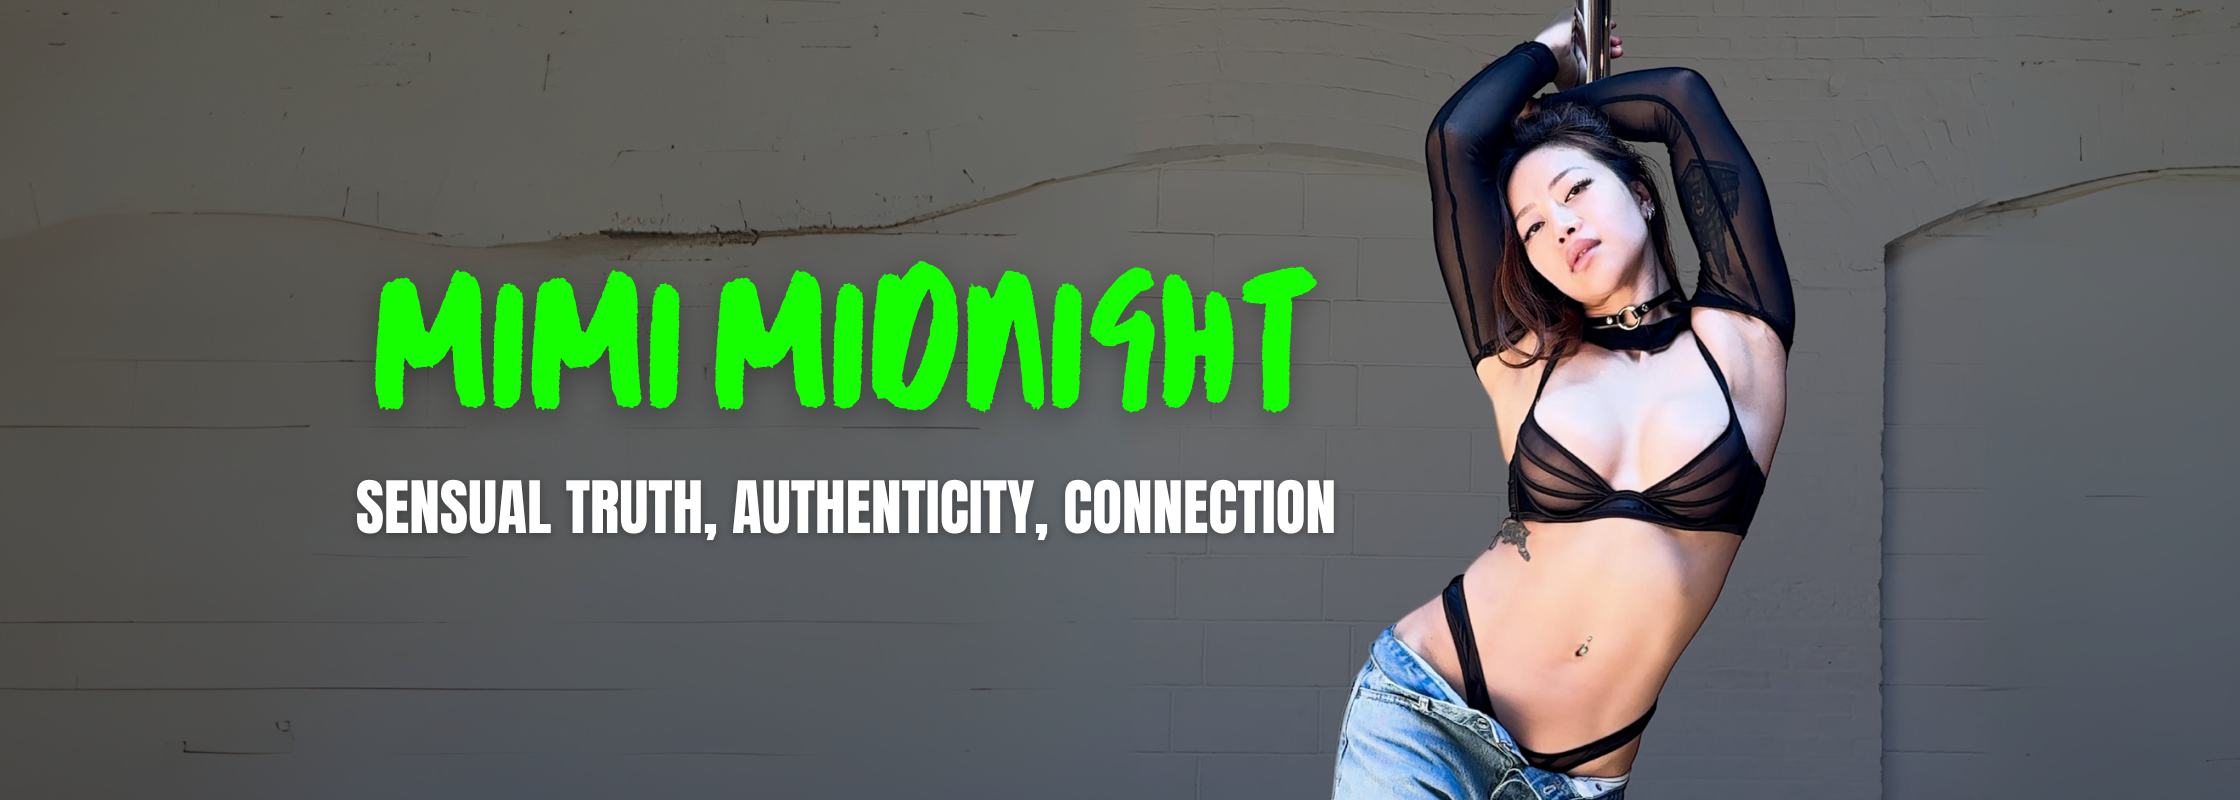
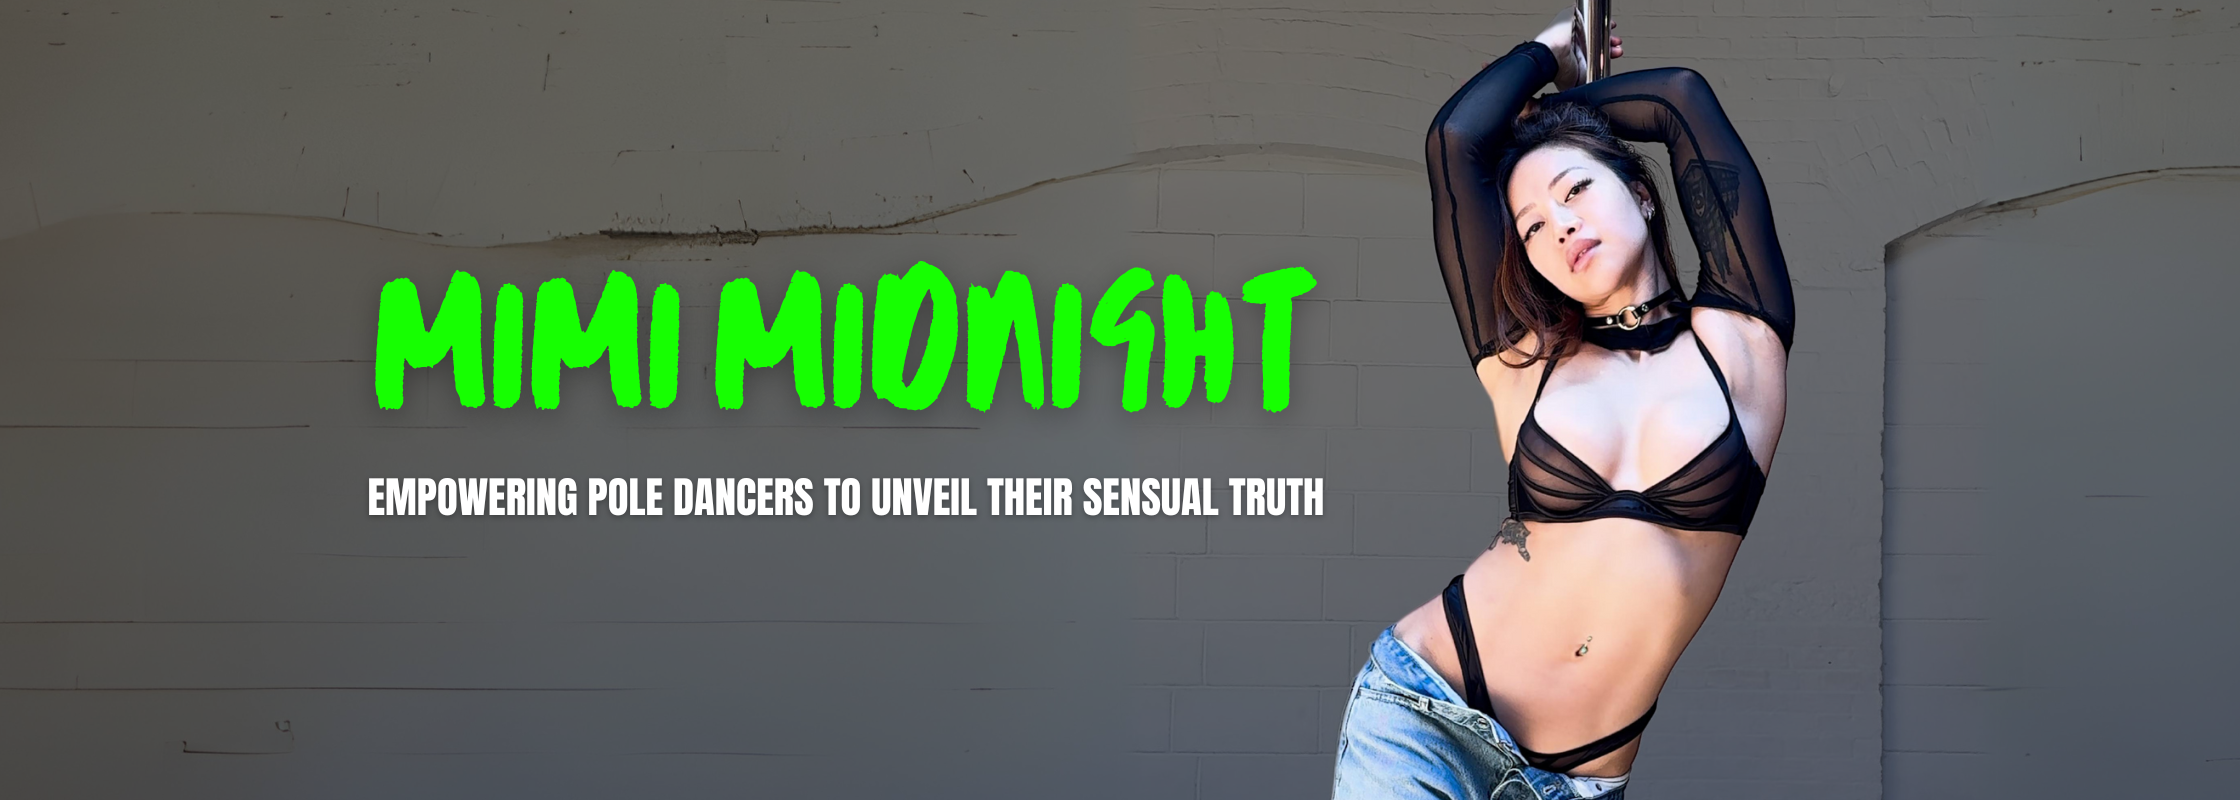
added content

Changed region(s): [[0.1562, 0.5938, 0.5938, 0.6875]]

diff --git a/Upcoming.html b/Upcoming.html
@@ -51,11 +51,11 @@
            		<img src="images/logo.png" alt="Mimi Midnight" id="logo">
          		</a>
          	<ul id="main-menu" class="navigation slide-in-top">
-        		<li><a href="https://learn.mimimidnight.com">Offerings</a></li>
+        		<li><a href="https://learn.mimimidnight.com" target="_blank">Offerings</a></li>
         		<li><a href="upcoming.html">Upcoming</a></li>
         		<li><a href="about.html">About</a></li>
         		<li><a href="https://midnightmovementlab.com/" target="_blank">Mailing list</a></li>
-        		<li><a href="blog.html">Blog</a></li>
+        		<li><a href="blog.html" target="_blank">Blog</a></li>
         		<li><a href="https://learn.mimimidnight.com/users/sign_in" target="_blank">Sign in</a></li>
         </nav>
       </div>
@@ -82,11 +82,11 @@
 				<div class="subtitle">
 					<h5>PNW 2024 TOUR
             	</div>
-            <h3>TACOMA</h3>
-            <p>UNVEILED 2 day immersive</p>
-            <p>August 17 & 18</p>
-            <p>Studio 4 Pole 4 Fun</p>
-            <a href="https://www.wellnessliving.com/rs/event/studio4.pole4fun?k_class=663602&k_class_tab=46827" target="blank" class="btn">BOOK WITH STUDIO
+            <h3>PORTLAND</h3>
+            <p>Show Stopping Inverts August 16 at 6:00PM</p>
+            <p>Movement Mastery August 16 at 7:45pm</p>
+            <p><b>Portland Pole + Dance</b></p>
+            <a href="https://www.poleanddancestudios.com/book/#/courses/r/210/loc/219?group=1846" target="_blank" class="btn">BOOK WITH STUDIO
               <svg>
                 <rect x="0" y="0" fill="none" width="166" height="45"/>
               </svg>
@@ -97,11 +97,10 @@
 				<div class="subtitle">
 					<h5>PNW 2024 TOUR
             	</div>
-            <h3>PORTLAND</h3>
-            <p>Workshop name</p>
-            <p>Date</p>
-            <p>Location</p>
-            <a href="blog/03_27_2018.html" class="btn">BOOK WITH STUDIO
+            <h3>VANCOUVER,WA</h3>
+            <p>UNVEILED August 17 & 18</p>
+            <p><b>Studio 4 Pole 4 Fun</b></p>
+            <a href="https://www.wellnessliving.com/rs/event/studio4.pole4fun?k_class=663602&k_class_tab=46827" class="btn" target="_blank">BOOK WITH STUDIO
               <svg>
                 <rect x="0" y="0" fill="none" width="166" height="45"/>
               </svg>
@@ -117,11 +116,11 @@
 				<div class="subtitle">
 					<h5>PNW 2024 TOUR
             	</div>
-            <h3>PORTLAND</h3>
-            <p>Workshop name</p>
-            <p>Date</p>
-            <p>Location</p>
-            <a href="blog/03_27_2018.html" class="btn">BOOK WITH STUDIO
+            <h3>TACOMA,WA</h3>
+            <p>Show Stopping Inverts August 21 at 5:00PM</p>
+            <p>UNVEILED August 22 & 23</p>
+            <p><b>Lilith Pole & Aerial Dance</b></p>
+            <a href="https://app.glofox.com/portal/#/branch/60a578c6ab89442d2e620cb3/courses/668f18cc0d2193384a09d252/schedule/1720653737961/book" class="btn" target="_blank">BOOK WITH STUDIO
               <svg>
                 <rect x="0" y="0" fill="none" width="166" height="45"/>
               </svg>
@@ -132,11 +131,12 @@
 				<div class="subtitle">
 					<h5>PNW 2024 TOUR
             	</div>
-            <h3>PORTLAND</h3>
-            <p>Workshop name</p>
-            <p>Date</p>
-            <p>Location</p>
-            <a href="blog/03_27_2018.html" class="btn">BOOK WITH STUDIO
+            <h3>SEATTLE</h3>
+            <p>Movement Master August 25 at 10AM</p>
+            <p>Show Stopping Inverts August 25 at 12:00PM</p>
+            <p>UNVEILED August 26 & 27 7:00PM</p>
+            <p><b>Ascendance Pole & Aerial Arts</b></p>
+            <a href="https://ascendancestudios.org/schedule" class="btn" target="_blank">BOOK WITH STUDIO
               <svg>
                 <rect x="0" y="0" fill="none" width="166" height="45"/>
               </svg>

diff --git a/index.html b/index.html
@@ -52,11 +52,11 @@
            		<img src="images/logo.png" alt="Mimi Midnight" id="logo">
          		</a>
          	<ul id="main-menu" class="navigation slide-in-top">
-        		<li><a href="https://learn.mimimidnight.com">Offerings</a></li>
+        		<li><a href="https://learn.mimimidnight.com" target="_blank">Offerings</a></li>
         		<li><a href="upcoming.html">Upcoming</a></li>
         		<li><a href="about.html">About</a></li>
         		<li><a href="https://midnightmovementlab.com/" target="_blank">Mailing list</a></li>
-        		<li><a href="blog.html">Blog</a></li>
+        		<li><a href="blog.html" target="_blank">Blog</a></li>
         		<li><a href="https://learn.mimimidnight.com/users/sign_in" target="_blank">Sign in</a></li>
         </nav>
       </div>
@@ -101,20 +101,51 @@
         </div>
 		
 		<div class="centercontainer">
+		
 			<div class="section">
-				<h1> Your guide to sensual truth</h1>
-				<p>People generally live through life as a fake version of themselves and not their real selves.
-				I help people live more authentically through sensuality and embodied movement practices.</p>
-			</div>
+				<div class="row">
+					<div class="column">
+						<h1>There is so much more that you can do</h1>
+						<p><b>You dream of being able to:</b></p>
+						<ul><li>Move with flow and fluidity</li>
+						<li>Execute mind blowing tricks</li>
+						<li>Express yourself fully</li></ul>
+						<p>But no matter how hard you work, you’re still not seeing as much progress as you’d like.</p>						
+					</div>
+					<div class="column">
+						<img src="images/portrait_performing.png" id="profpic">
+					</div>
+				</div>
+			</section>			
+			
 			<div class="section">
-				<h1> Headline</h1>
-				<p> some stuff here</p>
-				 <a href="work.html" class="btn">View all work
+				<h1> Your sensuality is a superpower you never knew you had</h1>
+				<p>Sensuality can literally transform the way you move. It’s a shortcut to improving your technique, flow, and self expression that could make your dreams so much closer than you think.</p>
+				 <a href="https://midnightmovementlab.com/unveiled" class="btn" target="_blank">Unlock it!
         		<svg>
          		 <rect x="0" y="0" fill="none" width="166" height="45"/>
        			</svg>
        			 </a>
 			</div>
+			
+			<div class="section">
+				<div class="row">
+					<div class="column">
+						<h1>Hi, I'm Mimi!</h1>
+						<p>I’m on a mission to empower pole dancers to unveil their sensual truth so that they can start moving in ways that feel good and true to them.</p>
+						<a href="https://learn.mimimidnight.com" class="btn" target="_blank">LFG!
+        				<svg>
+         				 <rect x="0" y="0" fill="none" width="166" height="45"/>
+       					</svg>
+       					 </a>					
+					</div>
+					<div class="column">
+						<img src="images/Mimi.jpeg" id="profpic">
+					</div>
+				</div>
+			</section>			
+			
+			
 			<div class="section">
 				<h1> Let's connect</h1>
 				<div>
@@ -127,6 +158,8 @@
 
 
       </div>
+    </div>
+    </div>
     </div>
 
   <!-- **************************************************************** -->    

diff --git a/about.html b/about.html
@@ -55,11 +55,11 @@
            		<img src="images/logo.png" alt="Mimi Midnight" id="logo">
          		</a>
          	<ul id="main-menu" class="navigation slide-in-top">
-        		<li><a href="https://learn.mimimidnight.com">Offerings</a></li>
+        		<li><a href="https://learn.mimimidnight.com" target="_blank">Offerings</a></li>
         		<li><a href="upcoming.html">Upcoming</a></li>
         		<li><a href="about.html">About</a></li>
         		<li><a href="https://midnightmovementlab.com/" target="_blank">Mailing list</a></li>
-        		<li><a href="blog.html">Blog</a></li>
+        		<li><a href="blog.html" target="_blank">Blog</a></li>
         		<li><a href="https://learn.mimimidnight.com/users/sign_in" target="_blank">Sign in</a></li>
         </nav>
       </div>
@@ -70,8 +70,10 @@
 	<div class="section">
 		<div class="row">
 			<div class="column">
-				<h1> Hi, I'm Mimi</h1>
-				<p> Lorem ipsum dolor sit amet, consectetur adipiscing elit, sed do eiusmod tempor incididunt ut labore et dolore magna aliqua. Ut enim ad minim veniam, quis nostrud exercitation ullamco laboris nisi ut aliquip ex ea commodo consequat. Duis aute irure dolor in reprehenderit in voluptate velit esse cillum dolore eu fugiat nulla pariatur. Excepteur sint occaecat cupidatat non proident, sunt in culpa qui officia deserunt mollit anim id est laborum.</p>
+				<h1> Meet Mimi</h1>
+				<p>Mimi, the "Sensuality Sensei" and creator of UNVEILED, is an award-winning movement artist (3 international & national titles) who's empowered pole dancers across 15+ cities worldwide to uncover their sensual truth.</p>
+				<p>Through her unique teaching methodology, she guides students to infuse sensuality into their movement practice, transforming it from exercise to an expression of self. <p>
+				<p>When not pole dancing, you can find her inhaling bubble tea, designing clothes, or getting lost in beautiful architecture.</p>
 			</div>
 			<div class="column">
 				<img src="images/Mimi.jpeg" id="profpic">

diff --git a/blog_2024_03_13.html b/blog_2024_03_13.html
@@ -73,7 +73,7 @@
         	<p>Not too long ago, I thought that developing my own style meant just mashing up all the moves that I loved together. I would take some stuff from person A and blend it with person B and then add a little of Person C. But what I ended up with was just a remix of other people’s moves and nothing that felt genuine to me.</p>
         	<p>Discovering your own style is a lot like self therapy. You ask yourself A LOT of questions. You have to dig deep and be vulnerable to find what makes you unique. Some of these answers might feel disappointing (ex: discovering that you love a move that is considered "boring" by the algorithm), but the challenge is to embrace and lean into it anyway.</p>
         	<p>Sometimes “training” is not always physical. Next time you’re feeling stuck, take a physical break from pole and try to approach it from another angle, perhaps a psychological or philosophical one. And if you're currently injured, there is no better time to do it. I’m excited for what you will discover 🙂</p>
-
+			<a href="https://mimimidnight.ck.page/findingyourstyle" target="_blank" class="link"> Get my free guide to finding your own style here </a>
       </div>
     </section>
     <div>

diff --git a/styles/styles.css b/styles/styles.css
@@ -95,11 +95,17 @@ a:focus {
   color: var(--main-color);
 }
 
+.link {
+	text-decoration: underline;
+	color: var(--main-color);
+	font-weight: 500;
+}
+
 h1 {
 font-family: Anton;
-  font-size: 2.5rem; 
+  font-size: 2rem; 
   text-transform: uppercase;
-  line-height: 1.2em;
+  line-height: 1em;
   color: var(--text-color);
   margin: 0;
   letter-spacing: 0.05em;
@@ -155,14 +161,6 @@ p {
   transform: scaleX(-1);
   filter: FlipH;
   -ms-filter: "FlipH";
-}
-ul {
-	font-size: 1.2em;
-	line-height: 1.4em;
-}
-ol {
-	font-size: 1.2em;
-	line-height: 1.4em;
 }
 
 /********************************/
@@ -892,7 +890,9 @@ h6 {
     padding: 0;
     width: 100%;
   }
-  
+  .centercontainer {
+  padding: 0em;
+  }
 }
 @media screen and (max-width: 660px) {
 	.column {
@@ -912,12 +912,7 @@ h6 {
 	.project-page p {
 		font-size: 1.1rem;
 	}
-	ul {
-	font-size: 1.1rem;
-	}
-	ol {
-	font-size: 1.1rem;
-	}
+
 	.body-content {
 		display:flex;
 		justify-content: center;
@@ -1019,7 +1014,7 @@ h6 {
   width: 120px;
   }
   .centercontainer {
-  padding: 1rem;
+  padding: 0rem;
   } 
   .contact-item {
   margin: 1em;

diff --git a/blog.html b/blog.html
@@ -53,11 +53,11 @@
            		<img src="images/logo.png" alt="Mimi Midnight" id="logo">
          		</a>
          	<ul id="main-menu" class="navigation slide-in-top">
-        		<li><a href="https://learn.mimimidnight.com">Offerings</a></li>
+        		<li><a href="https://learn.mimimidnight.com" target="_blank">Offerings</a></li>
         		<li><a href="upcoming.html">Upcoming</a></li>
         		<li><a href="about.html">About</a></li>
         		<li><a href="https://midnightmovementlab.com/" target="_blank">Mailing list</a></li>
-        		<li><a href="blog.html">Blog</a></li>
+        		<li><a href="blog.html" target="_blank">Blog</a></li>
         		<li><a href="https://learn.mimimidnight.com/users/sign_in" target="_blank">Sign in</a></li>
         </nav>
       </div>
@@ -286,6 +286,8 @@
       </div>
 
     </div>
+</div>
+</div>
 </div>
  
 <div id="sayhello">

diff --git a/blog_2024_06_19.html b/blog_2024_06_19.html
@@ -53,7 +53,7 @@
            		<img src="images/logo.png" alt="Mimi Midnight" id="logo">
          		</a>
          	<ul id="main-menu" class="navigation slide-in-top">
-        		<li><a href="https://learn.mimimidnight.com">Offerings</a></li>
+        		<li><a href="https://learn.mimimidnight.com" target="_blank">Offerings</a></li>
         		<li><a href="upcoming.html">Upcoming</a></li>
         		<li><a href="about.html">About</a></li>
         		<li><a href="https://midnightmovementlab.com/" target="_blank">Mailing list</a></li>
